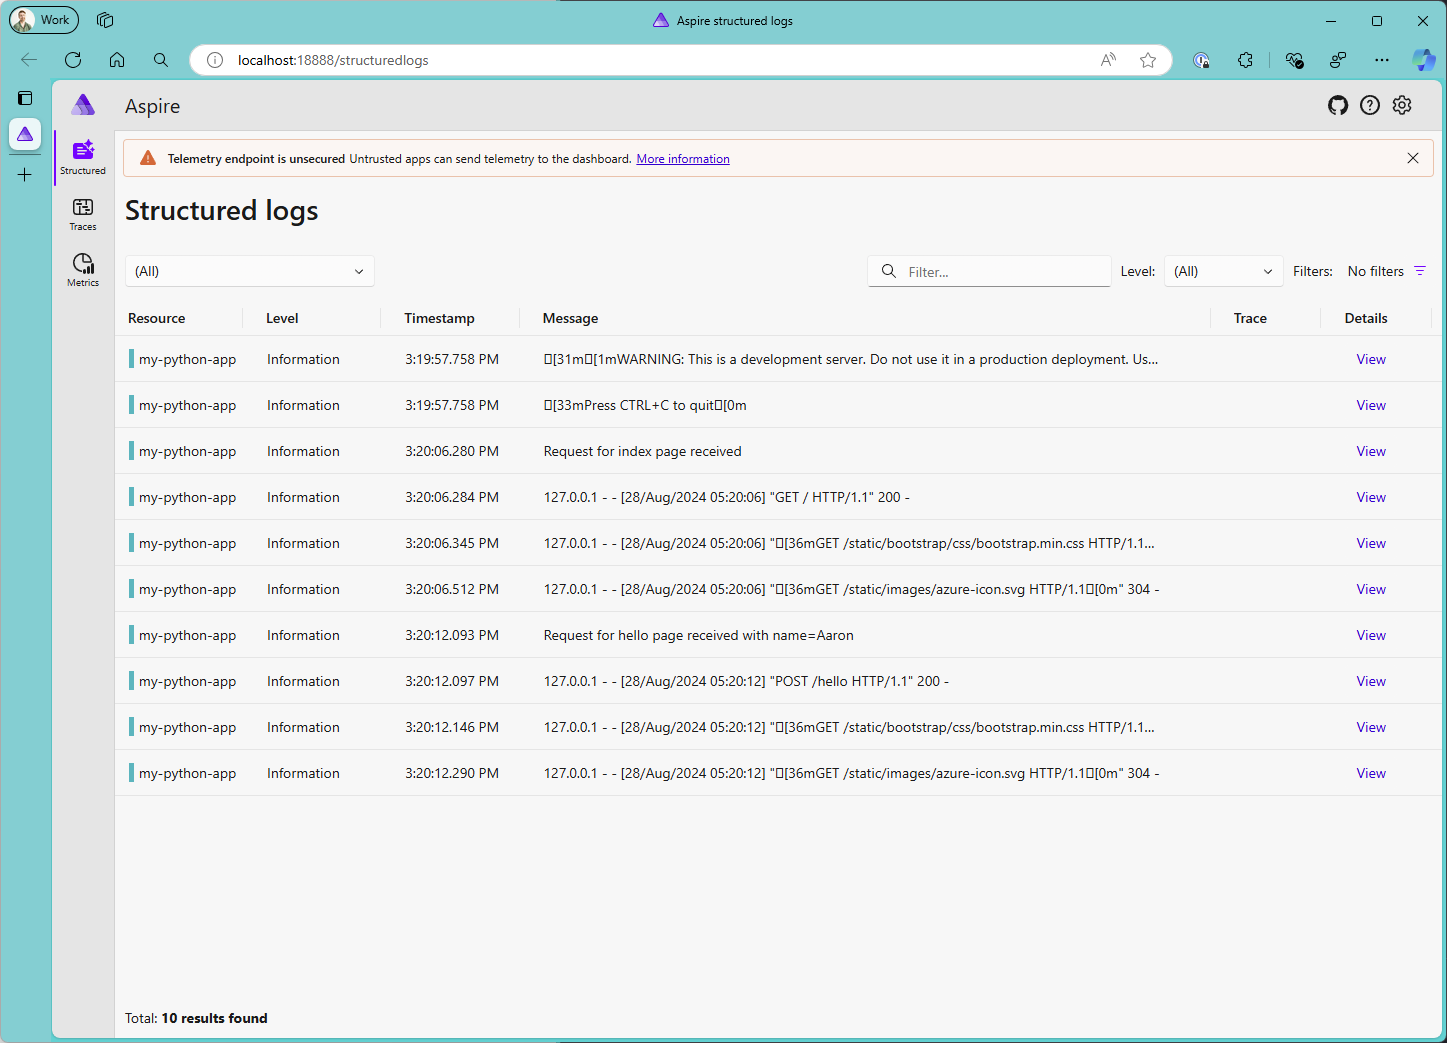
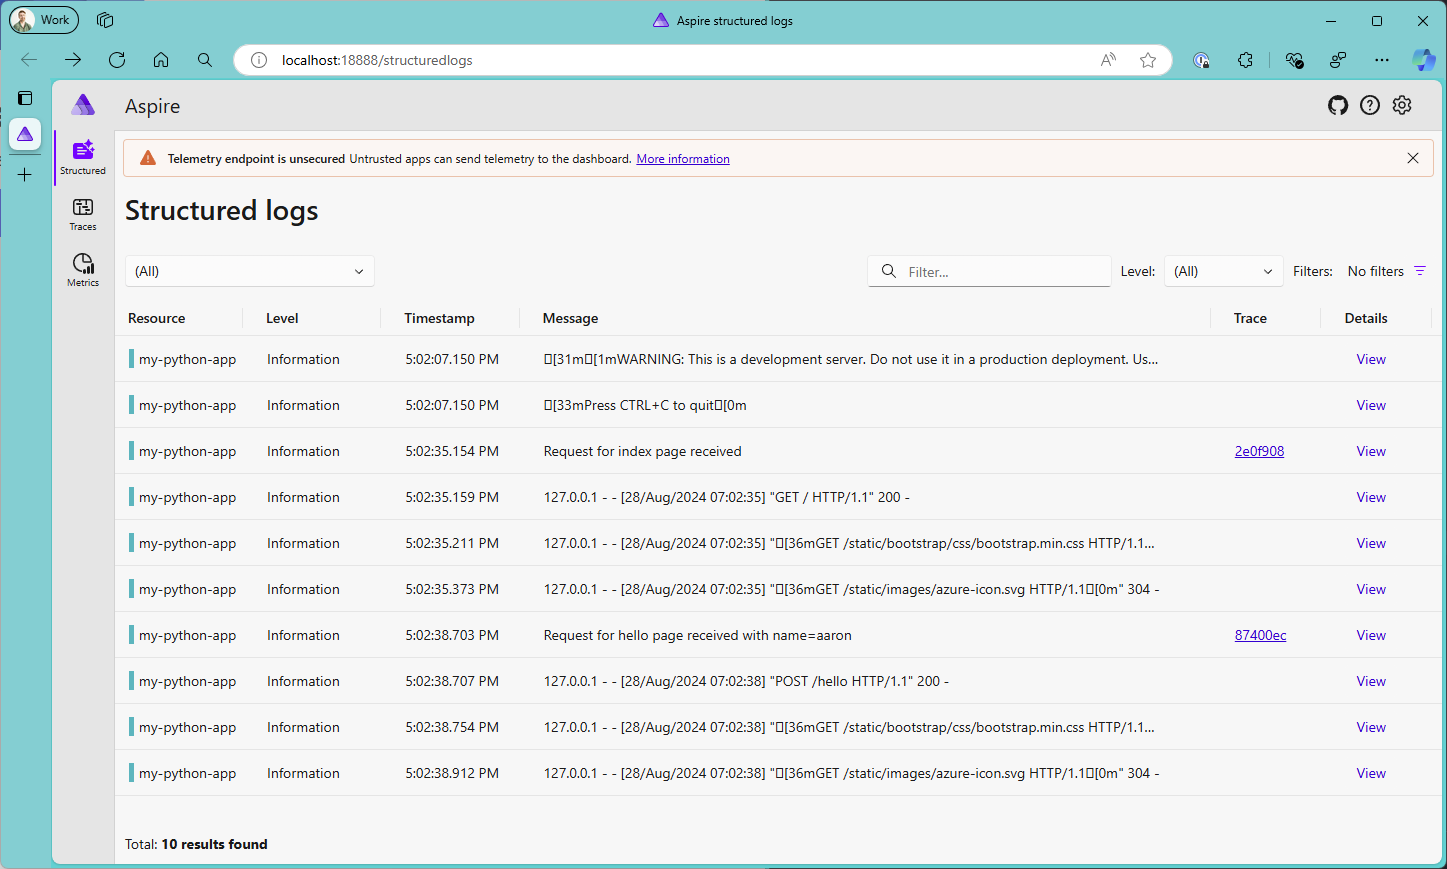
Adding instrumentation packages for flask/fastapi

diff --git a/docs/fundamentals/dashboard/standalone-for-python.md b/docs/fundamentals/dashboard/standalone-for-python.md
@@ -175,6 +175,46 @@ To use the Aspire dashboard with your Python application, you need to install th
 1. Replace the `print` calls with `logger.info` calls in your application.
 1. Restart your application.
 
+### Framework Specific Instrumentation
+
+This instrumentation has only focused on adding OpenTelemetry to our code. For more detailed instrumentation, you can use the OpenTelemetry Instrumentation packages for the specific frameworks that you are using.
+
+### [Flask](#tab/flask)
+
+1. Install the Flask instrumentation package:
+
+    ```Console
+    pip install opentelemetry-instrumentation-flask
+    ```
+
+1. Add the following code to your application:
+
+    ```Python
+    from opentelemetry.instrumentation.flask import FlaskInstrumentor
+
+    # add this line after configure_otel_otlp() call
+    FlaskInstrumentor().instrument()
+    ```
+
+### [FastAPI](#tab/fastapi)
+
+1. Install the FastAPI instrumentation package:
+
+    ```Console
+    pip install opentelemetry-instrumentation-fastapi
+    ```
+
+1. Add the following code to your application:
+
+    ```Python
+    from opentelemetry.instrumentation.fastapi import FastAPIInstrumentor
+
+    # add this line after configure_otel_otlp() call
+    FastAPIInstrumentor.instrument_app(app)
+    ```
+
+---
+
 ## Start the Aspire dashboard
 
 To start the Aspire dashboard in standalone mode, run the following Docker command:
